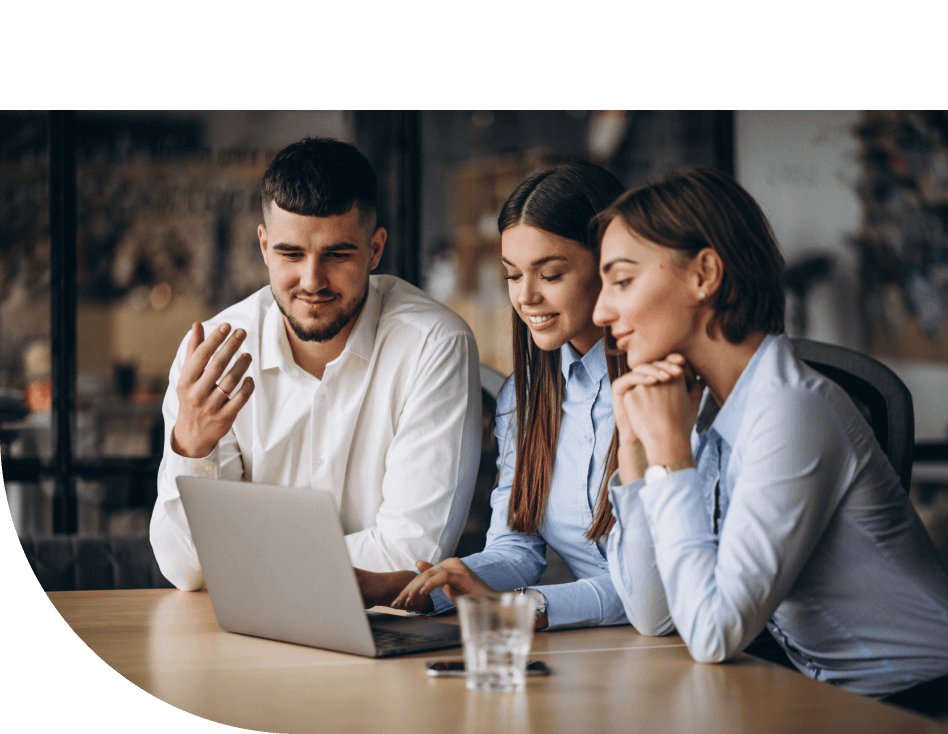
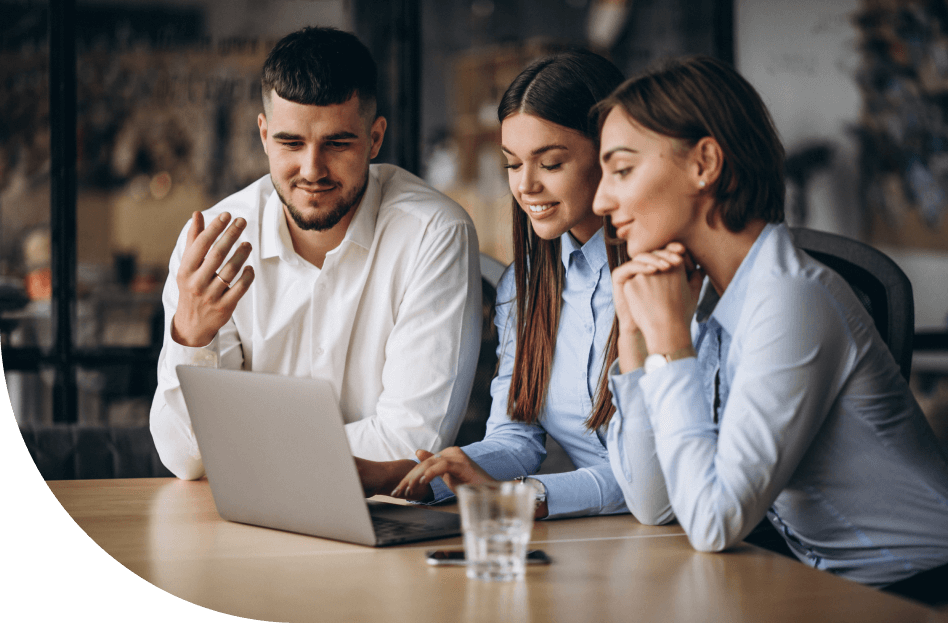
feat: implement project, company intro sections

diff --git a/src/sass/common/intro.scss b/src/sass/common/intro.scss
@@ -62,7 +62,9 @@
   display: flex;
   justify-content: flex-end;
 
+  max-width: 68.3rem;
   width: 100%;
+  min-height: 77.2rem;
 
   border-radius: 0 0 400px 400px;
 
@@ -114,15 +116,31 @@
     }
   }
 
+  &--gradient {
+    &::before {
+      position: absolute;
+
+      top: 0;
+      right: 0;
+
+      width: 100%;
+      height: 100%;
+      border-radius: inherit;
+
+      content: '';
+
+      background: url('../img/png/gradient-3.png');
+      background-repeat: no-repeat;
+      background-position: center;
+      background-size: cover;
+    }
+  }
+
   &--secondary {
     display: flex;
 
-    overflow: hidden;
-
-    min-height: 74.3rem;
     max-width: 100%;
-
-    padding-top: 74px;
+    min-height: 74.3rem;
 
     border-bottom-right-radius: 0;
     border-bottom-left-radius: 300px;
@@ -152,9 +170,21 @@
     }
 
     @include media-tablet-lg {
+      max-width: 380px;
+      min-height: 530px;
+
       .intro__img-text {
         display: none;
       }
+    }
+
+    @include media-tablet-sm {
+      max-width: 530px;
+    }
+
+    @include media-phone-sm {
+      max-width: 335px;
+      min-height: 355px;
     }
   }
 }
@@ -162,10 +192,12 @@
 .intro__img {
   position: relative;
 
+  display: flex;
+
   overflow: hidden;
 
+  padding-top: 74px;
   width: 100%;
-  min-height: 77.2rem;
 
   border-radius: inherit;
 
@@ -191,7 +223,7 @@
   }
 
   &--padding-bottom {
-    padding-bottom: 20px;
+    padding-bottom: 30px;
   }
 
   &-phone {
@@ -232,33 +264,6 @@
         max-width: 95px;
       }
     }
-  }
-}
-
-.intro__img,
-.intro__img-wrapper {
-  max-width: 68.3rem;
-
-  @include media-desktop {
-    max-width: 550px;
-  }
-
-  @include media-laptop {
-    max-width: 422px;
-    min-height: 541px;
-  }
-
-  @include media-tablet-lg-sm {
-    max-width: 350px;
-  }
-
-  @include media-tablet-sm {
-    max-width: 422px;
-    align-self: flex-end;
-  }
-
-  @include media-phone-sm {
-    min-height: 470px;
   }
 }
 
@@ -314,6 +319,31 @@
   .button {
     &:not(:last-of-type) {
       margin-right: 20px;
+    }
+  }
+
+  @include media-phone-sm {
+    flex-direction: column;
+    align-items: flex-start;
+
+    .button:not(:last-of-type) {
+      margin-bottom: 30px;
+      margin-right: 0;
+    }
+
+    .button--reverse {
+      margin-left: 0;
+
+      a,
+      button {
+        transform: translate(8px, 8px);
+      }
+
+      &:before,
+      a,
+      button {
+        border-radius: 0 0 20px 0;
+      }
     }
   }
 }

diff --git a/src/sass/portfolio/portfolio-intro.scss b/src/sass/portfolio/portfolio-intro.scss
@@ -1,25 +1,6 @@
 .portfolio-intro__img {
-  overflow: hidden;
-
   img {
     position: absolute;
-    bottom: 0;
-  }
-}
-
-.portfolio-intro__img,
-.portfolio-intro__img-wrapper {
-  @include media-tablet-lg {
-    max-width: 380px;
-    min-height: 530px;
-  }
-
-  @include media-tablet-sm {
-    max-width: 530px;
-  }
-
-  @include media-phone-sm {
-    max-width: 335px;
-    min-height: 355px;
+    bottom: -5px;
   }
 }

diff --git a/src/sass/common/header.scss b/src/sass/common/header.scss
@@ -6,6 +6,24 @@
   left: 0;
   width: 100%;
 
+  &--light {
+    .header__lang {
+      button {
+        color: $color-white-alpha;
+      }
+
+      img {
+        filter: brightness(10);
+      }
+    }
+
+    .burger-button {
+      span {
+        background-color: $color-white-alpha;
+      }
+    }
+  }
+
   &.open {
     height: 100%;
 

diff --git a/src/sass/services/steps.scss b/src/sass/services/steps.scss
@@ -2,7 +2,7 @@
   margin-bottom: 12rem;
 
   @include media-tablet-sm {
-    margin-bottom: 40px;
+    margin-bottom: 30px;
   }
 }
 
@@ -200,7 +200,9 @@
       top: 0 !important;
       left: 0 !important;
 
-      margin-bottom: 20px;
+      &:not(:last-child) {
+        margin-bottom: 20px;
+      }
     }
 
     span {

diff --git a/src/sass/common/includes/button.scss b/src/sass/common/includes/button.scss
@@ -7,6 +7,8 @@
 
   margin-bottom: 8px;
 
+  text-align: center;
+
   &:before {
     z-index: -1;
 
